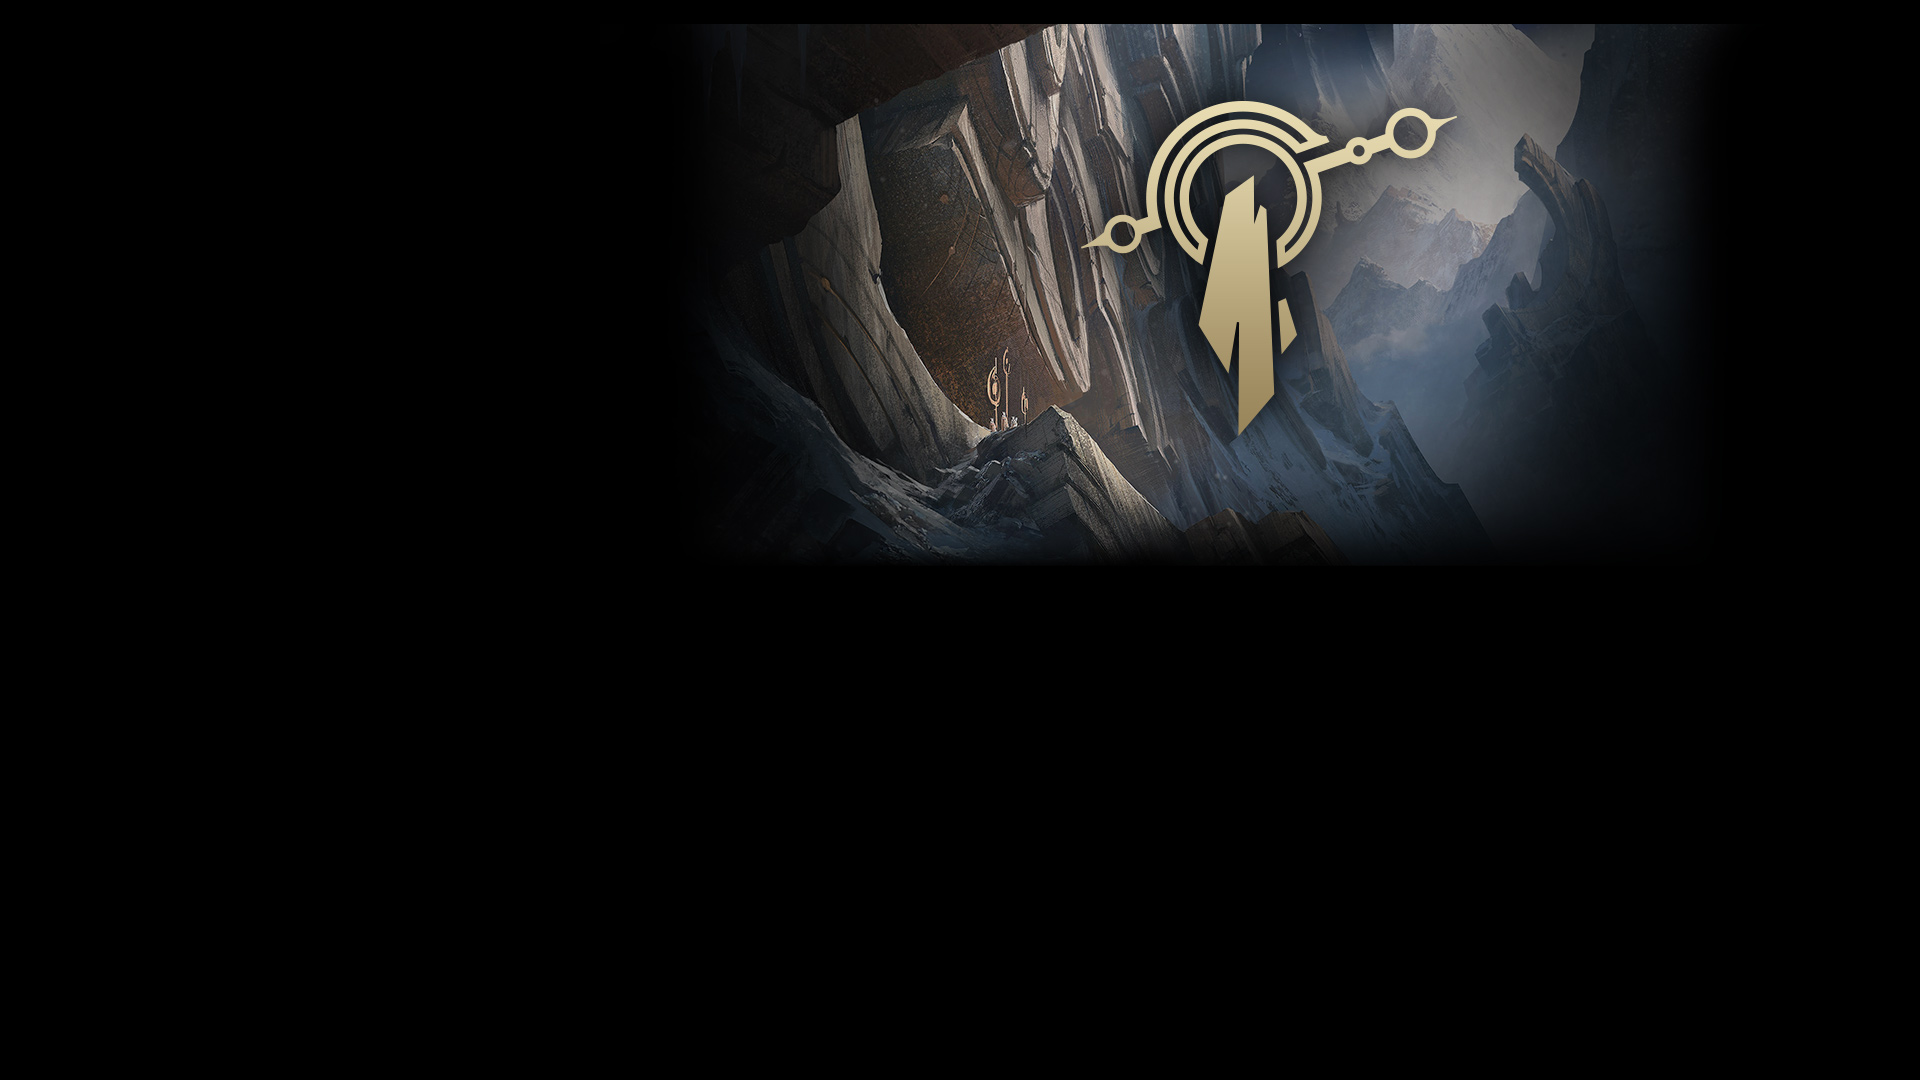
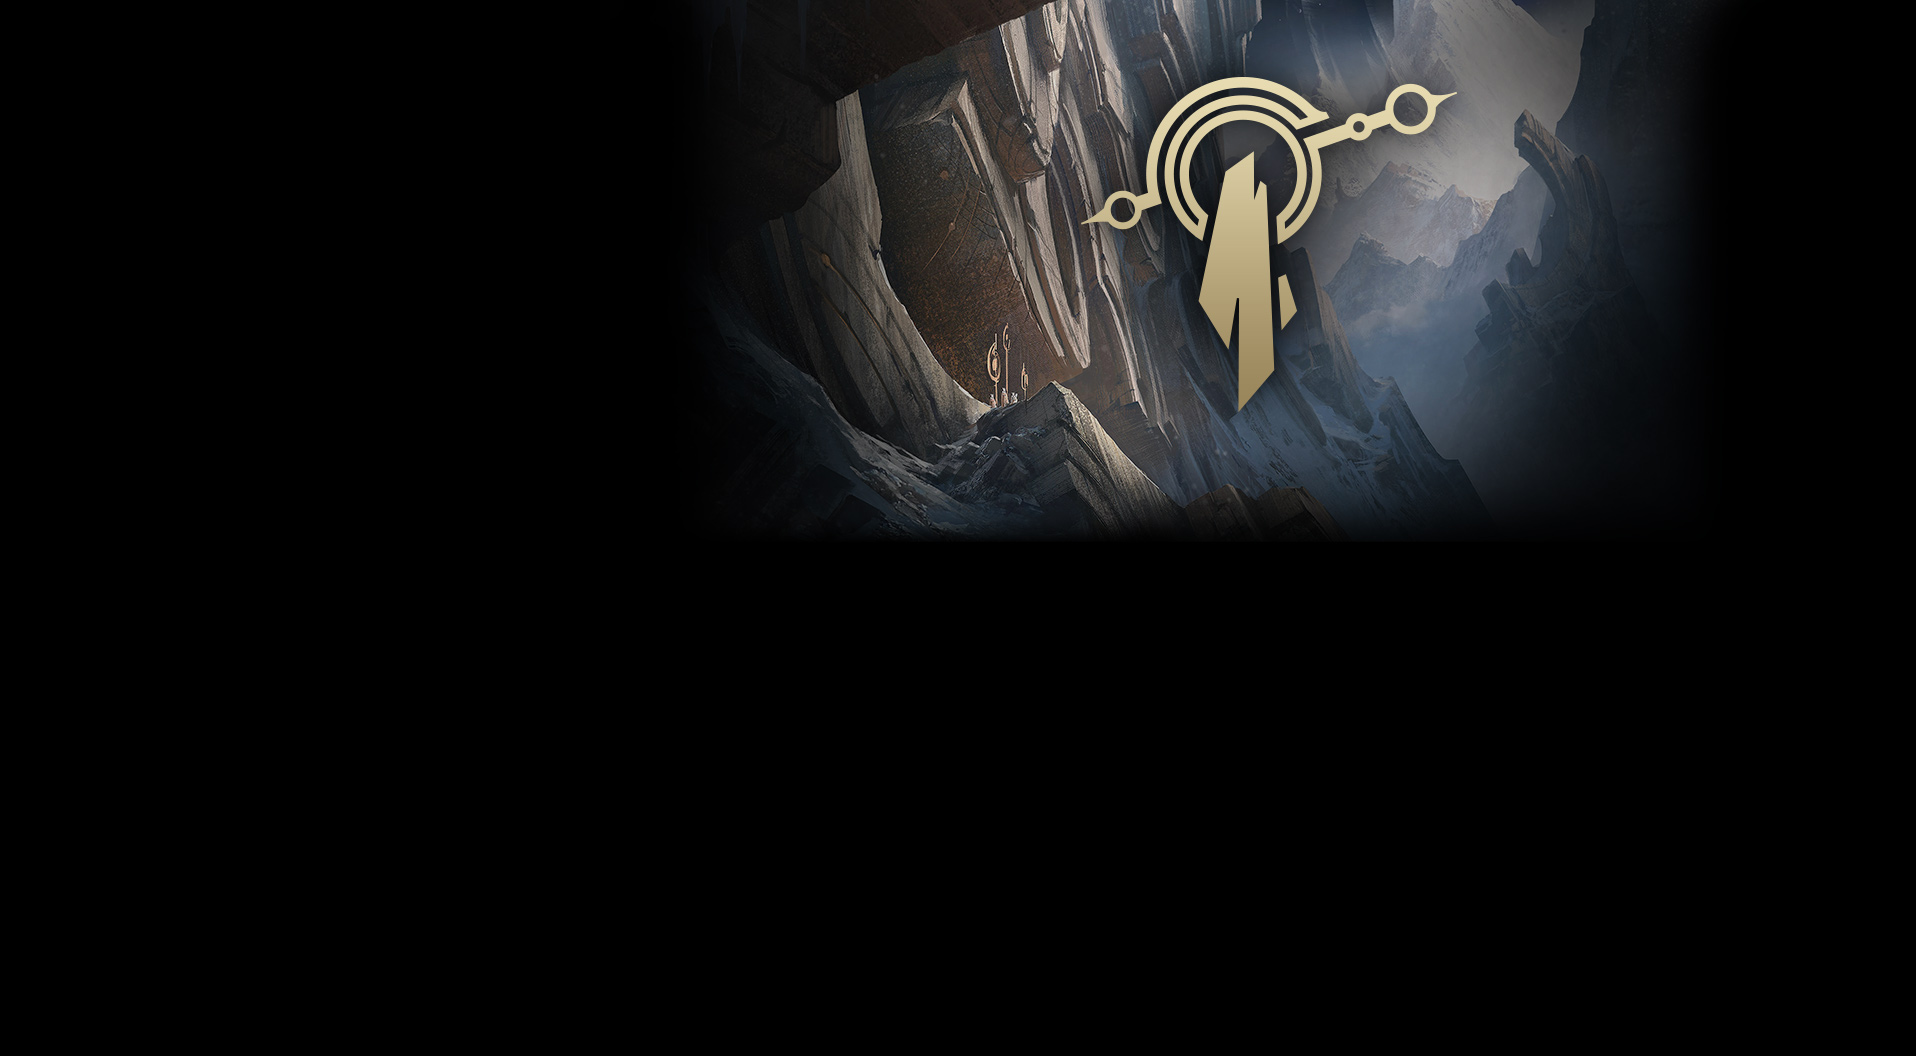
Champ Creation Page
Created and styled the create new champion page, and also changed the
background image to remove small black bar at the top

Changed region(s): [[0.4003, 0.0, 0.893, 0.5312]]

diff --git a/create.css b/create.css
@@ -1,0 +1,56 @@
+body {
+	margin: 0;
+	padding: 0;
+	background: url('lol_homepage_targon_v1_img.jpg') #000 no-repeat;
+}		
+
+h3 {
+	font-family: 'Amatic SC', cursive;
+	line-height: 100%;
+	font-size: 20pt;
+	color: #B2B2B2;
+	text-align: center;
+}
+
+#header {
+	margin-top: 20px;
+	width: 100%;
+	height: 50px;
+}
+
+h1 {
+	font-family: 'Amatic SC', cursive;
+	line-height: 150%;
+	font-size: 30pt;
+	color: white;
+	text-align: center;
+}
+
+#newchampform {
+	margin-top: 25px;
+	margin-left: auto;
+	margin-right: auto;
+	width: 250px;
+}
+
+input[type='text'] {
+	text-align: center;	
+	display: block;
+	margin: 0 auto;
+	width: 200px;
+}
+
+input[type='submit'] {
+	width: 250px;
+	height: 37px;
+	font-size: 12pt;
+	border-color: #f6c653 #bd6a23 #b6631f #e8ab4a;
+    background: #d79922;
+    color: #222222;
+    font-family: "Adobe Garamond Pro", Garamond, "Baskerville Old Face", "Hoefler Text", "Times New Roman", serif;
+    padding: 6px 20px 4px 20px;
+    line-height: 100%;
+    cursor: pointer;
+    display: block;
+    margin-top: 25px;
+}

diff --git a/league.css b/league.css
@@ -36,7 +36,7 @@ input[type='image']:hover {
 	border-bottom: 2px solid #0C2830;
 	margin-bottom: 25px;
 }
-
+	
 #footer {
 	bottom: 0;
 	width: 100%;
@@ -68,8 +68,9 @@ input[type='submit']:hover {
 }
 
 h1 {
-	font-family: 'Raleway', sans-serif;
-	line-height: 200%;
-	color: #e5e5e5;
+	font-family: 'Amatic SC', cursive;
+	font-size: 30pt;
+	line-height: 167%;
+	color: #B2B2B2;
 	text-align: center;
 }

diff --git a/create.php b/create.php
@@ -1,0 +1,32 @@
+<html>
+<head>
+
+	<link rel='stylesheet' href='create.css' type='text/css'>
+	<link href='https://fonts.googleapis.com/css?family=Amatic+SC' rel='stylesheet' type='text/css'>
+
+</head>
+<body>
+
+	<div id='header'>
+		<h1> Create New Champion </h1>
+	</div>	
+
+	<form method='post' action='update.php'>
+		<div id='newchampform'>
+			<h3>Champion Name</h3>
+			<input type='text' name='champion' placeholder='Champion Name'>
+
+			<h3>Passive</h3>
+			<input type='text' name='passive' placeholder='Passive'>
+
+			<h3>Champion Skills</h3>
+			<input type='text' name='skill1' placeholder='Skill 1'><br>
+			<input type='text' name='skill2' placeholder='Skill 2'><br>
+			<input type='text' name='skill3' placeholder='Skill 3'><br>
+			<input type='text' name='skill4' placeholder='Skill 4'><br>
+
+			<input type='submit' value='Create New Champion!'>
+		</div>
+	</form>	
+
+</body>

diff --git a/index.php b/index.php
@@ -17,7 +17,8 @@
 <head>
 
 	<link rel='stylesheet' type='text/css' href='league.css'>
-	<link href='https://fonts.googleapis.com/css?family=Raleway' rel='stylesheet' type='text/css'>
+	<link href='https://fonts.googleapis.com/css?family=Amatic+SC' rel='stylesheet' type='text/css'>
+
 	
 </head>
 
@@ -42,14 +43,16 @@
 						. $row['champimg'] . "'/>";	 
 				}
 			?>
-			
+
 		</div>
 	</form>
 
 	<div id='footer'>
+	<form method='post' action='create.php'>
 		<div id='create'>
 			<input type='submit' value='Create New'/>
 		</div>
+	</form>
 	</div>
 
 </body>
